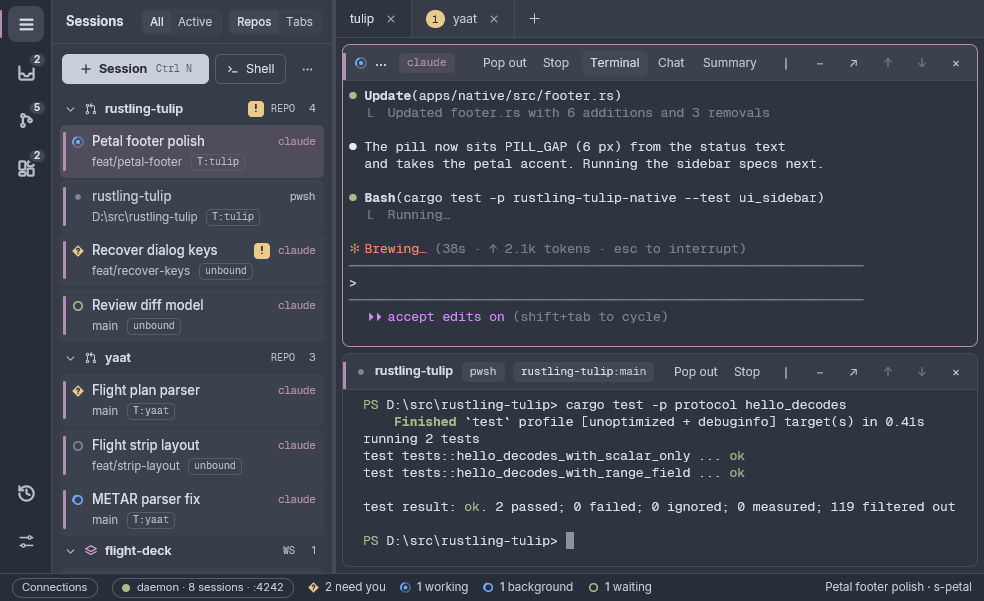
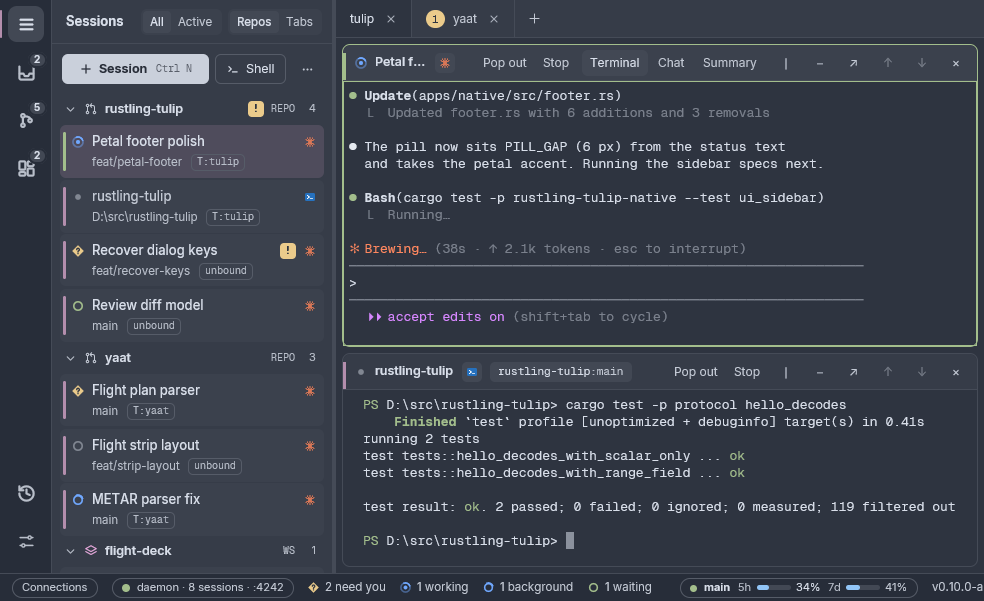
docs: refresh the README for v0.10.0-alpha

diff --git a/README.md b/README.md
@@ -15,7 +15,7 @@ It is alpha software.
 - Every session's status has its own shape and colour: working, asking you something, finished while you were away, idle, or idle with background work still running.
 - Tab pills and, on Windows, a badge on the taskbar button count the sessions that need you, and show nothing at zero; Settings can show busy or idle counts instead.
 - The Needs You panel lists every session waiting on you, longest wait first, with what each asks: its question, the tool it wants to run, or the plan to approve. A notification fires when a session needs you or finishes (skipped when you are already looking at it), after a wait you choose for Finished.
-- On Windows, notifications can be the app's own toasts, which answer a prompt or go to its pane without taking focus. Each kind plays its own sound, silent during Do Not Disturb: a chime from the bundled list, your own .wav or .ogg, or none.
+- Notifications can be the app's own toasts, which answer a prompt or go to its pane without taking focus; on macOS they always are. Each kind plays its own sound, silent during Do Not Disturb: a chime from the bundled list, your own .wav or .ogg, or none.
 - Turn on session summaries in Settings › Dashboard and each finished turn of a Claude session gets a one-line summary, kept across restarts, with a daily cap on what they spend.
 - The Dashboard tab, opened from the activity rail, opens on a Compact view of every running agent by repo, with its state, work and subagents and no scrolling. Its By status view adds context, recent work, cost, a two-hour activity bar and the Linear issue named in each session's branch, with a drawer per session.
 - Answer a session's question or permission prompt from the Dashboard with one click, or jump to its pane; the header counts today's cost, tokens and commits across every session.
@@ -24,11 +24,14 @@ It is alpha software.
 - Tabs and split panes: drag a pane or a sidebar session onto a pane to split, swap or move it, rearrange a tab into a grid, and undo a closed tab or a moved pane.
 - The sidebar groups sessions by repo or by tab, in Comfortable or Compact rows, and can show every session under a repo, only the busy ones, or just a count.
 - Repos sort with the ones that need you on top, by latest activity, or in your own order, and an All / Active switch hides the repos and workspaces with nothing running.
-- Right-click a repo or workspace for a Spawn submenu: Last, each agent, Shell and your presets. The New session dialog picks its target from a dropdown and remembers your Trusted choice.
+- Right-click a repo or workspace for a Spawn submenu: Last, each agent, Shell and your presets. The New session dialog picks its target from a list that narrows as you type, and remembers your Trusted choice.
+- Pick each host's default shell for new sessions and shells, from the shells installed there (PowerShell, cmd, Git Bash, WSL, Nushell, fish, zsh or bash) or your own command. Claude sessions start inside it.
 - Launch again with one click: a repo's last launch settings are replayed from its row. Presets start many sessions at once from a prompts file, a folder or GitHub issue ranges, and on a remote host the wizard takes typed paths on that host.
 - In the terminal, copying from Claude Code's boxed panels leaves out the borders, URLs open with Ctrl+click, a file path opens in its default app with Ctrl+click and in the viewer with Ctrl+Shift+click, shell commands get a pass/fail mark in the gutter with copy and re-run, and two header buttons jump between the prompts you sent.
 - Terminal programs that ask for urxvt or pixel-precise mouse reporting get clicks, drags and the wheel in the format they asked for.
 - When Claude exits, its pane stays a working shell, and its Chat and Summary views turn off until Claude starts again.
+- Start Claude yourself in a plain shell, by name, an alias or a wrapper, and the pane gets Chat and Summary while it runs. Settings › Claude can install the app's hooks in Claude Code's own settings, so such a Claude reports its conversation and status too.
+- On macOS hosts, programs that ask the terminal for its colours, such as bat and delta, get your theme's.
 - Secret environment values you give a session are stored in Windows Credential Manager, never in a settings file.
 
 ![The Dashboard tab's Compact view: a queue of the sessions waiting on you, then every session by repo with its state, what it is doing now and its running subagents and background work](docs/images/dashboard.png)
@@ -44,6 +47,21 @@ It is alpha software.
 - Compact mode, on by default, folds a run of reads, searches and commands into one line you can open. The chat column keeps a readable width on wide panes, and each turn's final answer sits in its own box.
 
 ![A Claude session's pane in the chat view, with its conversation, a permission card and the message box](docs/images/chat.png)
+
+### Claude accounts
+
+- Save several Claude logins and switch between them. The footer shows the account in use with its five-hour and weekly usage; click it to switch, turn auto-switch on and see when your accounts run dry.
+- Settings › Accounts lists your saved accounts to switch, rename, reorder, remove or add, logs in a new account in a terminal session, and sets auto-switch's threshold, cooldown, strategy and forecast window.
+- A toast tells you when auto-switch changes accounts, finds every account used up, or stops.
+
+![The footer's account popover: each saved account's five-hour and weekly usage with its resets, a Switch button, the account in use, and auto-switch at 85%](docs/images/accounts.png)
+
+### Gates
+
+- On Windows, a Gates view on the activity rail shows this PC's gate slots, the runs holding them, waiting gates and the queue, and sets each pool's slot count. Each row shows its command's usual time beside its own.
+- It lists the last two hours' gated runs with how each ended, and the last seven days' most frequent passed commands. A footer pill counts busy slots and names a run that failed in the last ten minutes.
+
+![The Gates view: the heavy, light and remote pools with their running commands and usual times, a held slot, the queue and recent runs, and the footer's Gates pill naming a failed run](docs/images/gates.png)
 
 ### Several hosts in one window
 
@@ -130,6 +148,15 @@ On a Mac with Apple silicon (there is no build for Intel Macs):
 4. Secret environment rows need Windows Credential Manager, so on a Mac a session with a secret row will not start; give it the secret through an `${env:NAME}` row instead.
 
 Remote access over Tailscale needs [Tailscale](https://tailscale.com/) on both PCs, signed in to the same tailnet, with HTTPS certificates turned on for it. Remote access over SSH needs only an SSH login to the other PC.
+
+## What's new in v0.10.0-alpha
+
+- rustling-tulip now runs on Apple silicon Macs, as a signed and notarized .dmg that updates itself.
+- Save several Claude logins, see each one's usage in the footer, and switch accounts by hand or let auto-switch do it.
+- On Windows, a Gates view shows this PC's gate slots, queue and recent runs, and sets each pool's slot count.
+- Pick each host's default shell, and a Claude you start by hand in a shell gets Chat and Summary too.
+
+The full list is in the [release notes](https://github.com/leftos/rustling-tulip/releases/tag/v0.10.0-alpha).
 
 ## What's new in v0.9.0-alpha
 
